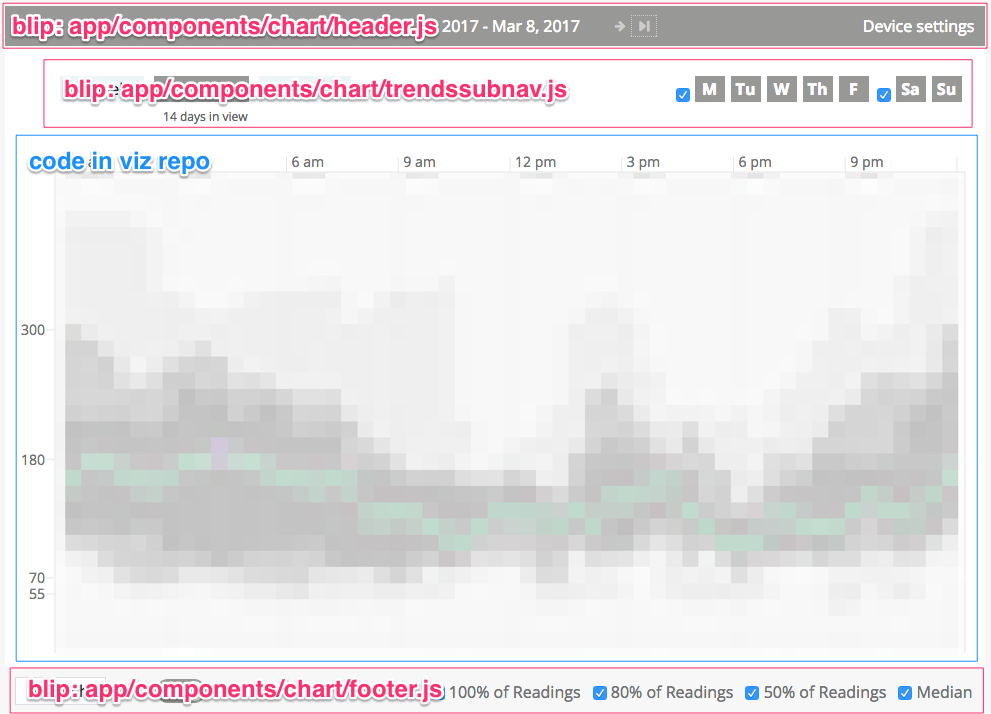
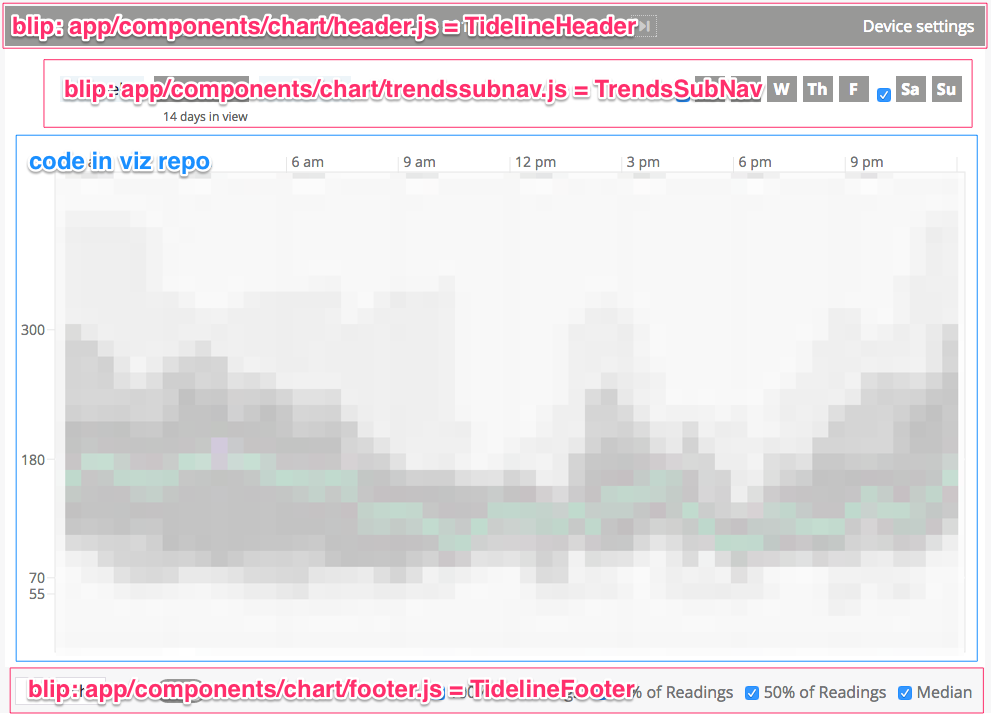
finish out Trends docs with layout info

Changed region(s): [[0.4238, 0.0, 0.666, 0.0616], [0.5752, 0.0924, 0.7871, 0.1541], [0.4541, 0.9552, 0.6357, 0.986]]

diff --git a/docs/views/Trends.md b/docs/views/Trends.md
@@ -16,7 +16,6 @@ There are two versions of the Trends view, one for displaying trend information 
 
 ![CGM Trends](./images/cgm_trends.png)
 
-
 **BGM Trends as of March, 2017**
 
 ![BGM Trends](./images/bgm_trends.png)
@@ -112,6 +111,21 @@ Currently only the data visualization itself for the BGM and CGM versions of the
 
 ### 📐 Layout
 
+The variables involved in the layout of the data display inside the Trends view—that is, the code for Trends view contained in this repository—are as follows, all originating in the `TrendsSVGContainer`:
+
+- `containerHeight` and `containerWidth` are the dimensions of the `<div id="tidelineContainer">` that the data portion of every view is rendered within. These are provided on `TrendsSVGContainer` as props via the `Dimensions` higher-order component (HOC) that wraps the SVG container. This `Dimensions` HOC is an external dependency from the [`react-dimensions`](https://github.com/digidem/react-dimensions 'GitHub: react-dimensions').
+- The `MARGINS` (a constant of `top`, `bottom`, `left`, and `right` properties) are the space outside the data display area (gray box) that provide padding around the data display area and space for the x- and y-axis ticks and labels.
+- The `BUMPERS` (a constant of `top` and `bottom` properties) are the internal padding in the data display area.
+
+Altogether, in diagram form (though **not to scale**):
+
+![Trends layout](./images/tidelineContainer@2x.png 'Trends layout')
+
 ### 💣 Tech Debt
 
 - Because of where they need to be rendered in the component hierarchy, the hover tooltip component(s) are currently being rendered in blip, and so as an expedient way to share the hover state between the viz code and the blip code, we are using Redux actions to represent the hover focus on element(s). Since hover state is **not** the kind of state that it makes sense to persist when a user navigates away from the visualization part of the app before coming back, the Redux store is not the appropriate place to store this state. Rather, this state should probably be contained in the React component state of a high-level container component in Trends.
+- When you hover a date line on the smbg side of Trends, instead of properly pulling the line to the top we just render a second version of the line on top.
+
+### 🚀 The Future
+
+At present the `<div id="tidelineContainer">` is given a fixed size via blip's styling, but as we introduce responsiveness in blip, we will be able to leverage the behavior of the `Dimensions` HOC to make the dataviz responsive. `Dimensions` will update the `containerHeight` and `containerWidth` props on `TrendsSVGContainer` on window resize, and then by implementing a `componentWillReceiveProps` on `TrendsSVGContainer` we will be able to adjust the dimensions of the rendered SVG and the ranges of the x and y scales created with D3 to respond to the new viewport size.
